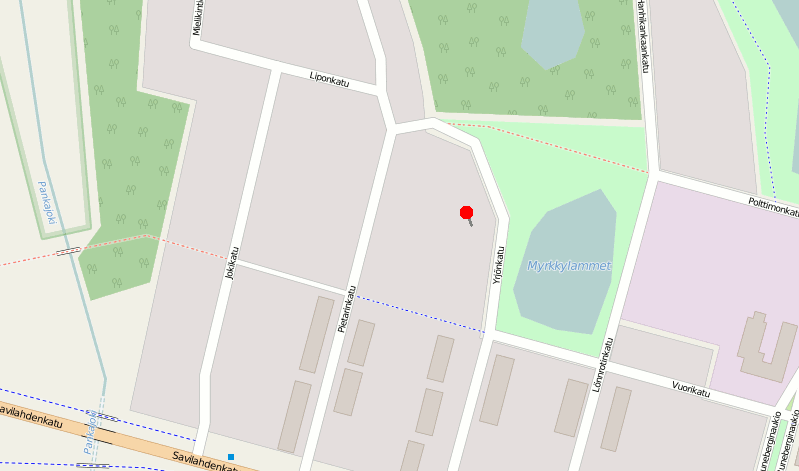
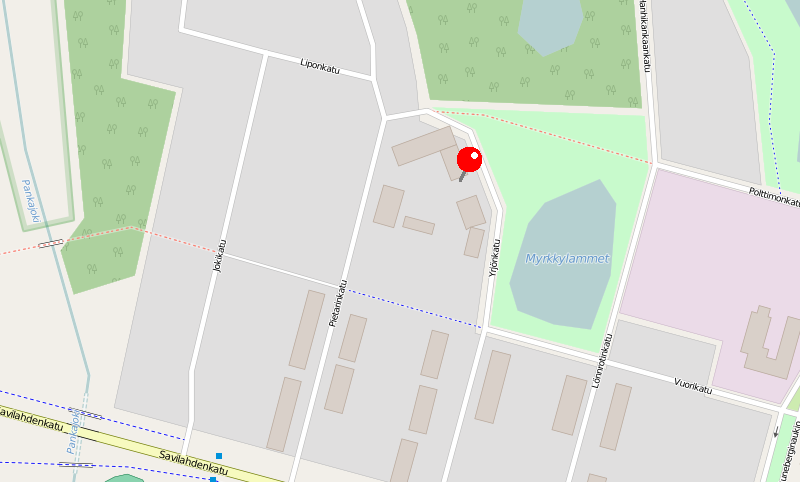
** Updated map to include surrounding buildings

diff --git a/index.html b/index.html
@@ -32,7 +32,9 @@ title: Blogi
 </div>
 
 <div class="map">
-    <img src="{{ site.baseurl }}public/images/map.png" />
+    <a href="http://osm.org/go/0x9tWfvsE-?m=">
+        <img src="{{ site.baseurl }}public/images/map.png" />
+    </a>
     <p class="map-source">
         &copy;
         <a href="http://www.openstreetmap.org/copyright">OpenStreetMap</a>
